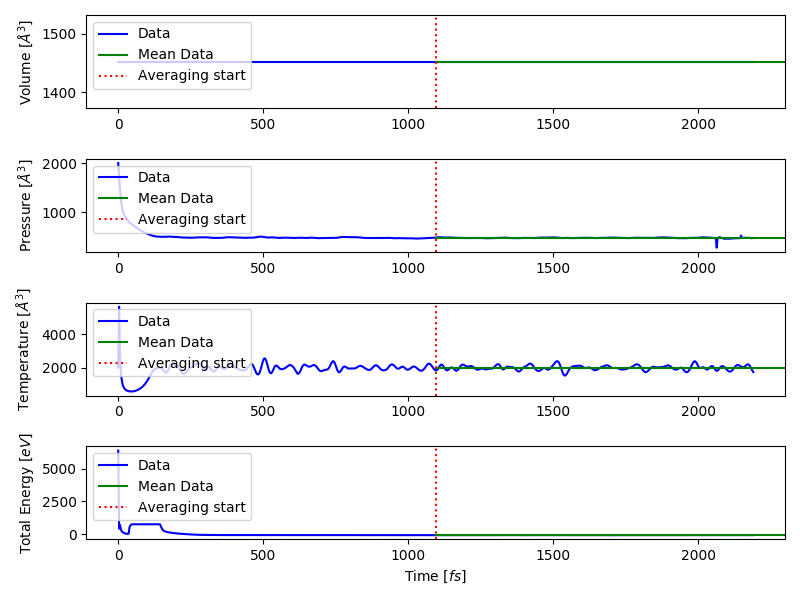
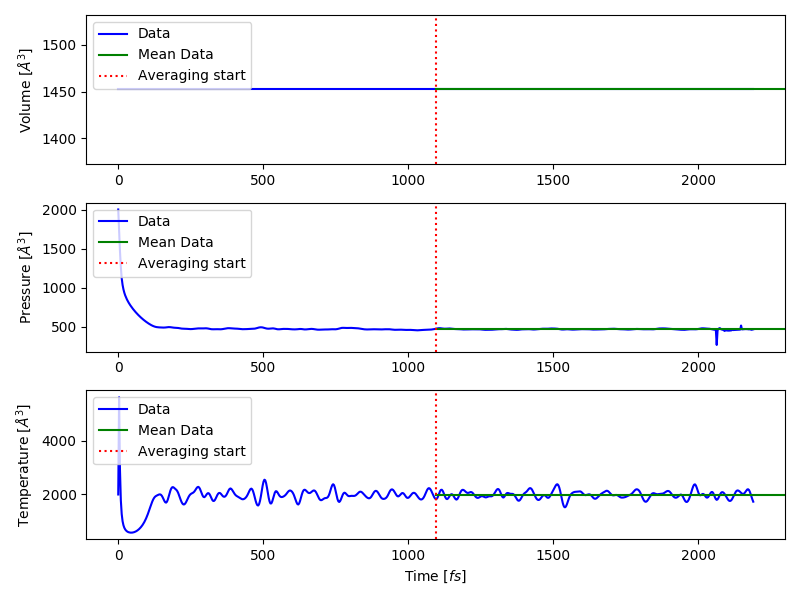
Removed etot from thermodynamic settling data because  of awkward parsing of OUTCAR. Also used spline interpolation for volume precition at zerpo pressure.

diff --git a/volumes/gather_data/scripts/iterators.py b/volumes/gather_data/scripts/iterators.py
@@ -39,34 +39,31 @@ def analysis(path, incar, poscar, outcar, fraction, save_plots=False):
     lattice, coords = parsers.poscar(join(path, poscar))
 
     # OUTCAR paramters
-    comp, vol, press, temp, etots = parsers.outcar(join(path, outcar))
+    comp, vol, press, temp = parsers.outcar(join(path, outcar))
 
     # Find minium data length because of runs stopping abruptly
     cut = min(map(len, [vol, press, temp]))
     vol = vol[:cut]
     press = press[:cut]
     temp = temp[:cut]
-    etots = etots[:cut]
 
     # Average the last percent amount of holds data
     start = floor(fraction*len(press))
     volume = np.mean(vol[start:])
     pressure = np.mean(press[start:])
     temperature = np.mean(temp[start:])
-    etot = np.mean(etots[start:])
 
     if save_plots:
-        n = 4  # Number of plots
+        n = 3  # Number of plots
         fig, ax = pl.subplots(n)
 
         x = np.array(range(len(vol)))*float(params['POTIM'])  # Time
+        xmin = x[start]/(max(x)-min(x))  # Fraction not exact due to rounding
 
         ax[0].plot(x, vol, color='b', label=r'Data')
         ax[1].plot(x, press, color='b', label=r'Data')
         ax[2].plot(x, temp, color='b', label=r'Data')
-        ax[3].plot(x, etots, color='b', label=r'Data')
 
-        xmin = x[start]/(max(x)-min(x))  # Fraction not exact due to rounding
         ax[0].axhline(
                       volume,
                       xmin=xmin,
@@ -85,17 +82,10 @@ def analysis(path, incar, poscar, outcar, fraction, save_plots=False):
                       color='g',
                       label=r'Mean Data'
                       )
-        ax[3].axhline(
-                      etot,
-                      xmin=xmin,
-                      color='g',
-                      label=r'Mean Data'
-                      )
 
         ax[0].set_ylabel(r'Volume $[\AA^{3}]$')
         ax[1].set_ylabel(r'Pressure $[\AA^{3}]$')
         ax[2].set_ylabel(r'Temperature $[\AA^{3}]$')
-        ax[3].set_ylabel(r'Total Energy $[eV]$')
 
         for i in range(n):
             ax[i].axvline(
@@ -119,7 +109,7 @@ def analysis(path, incar, poscar, outcar, fraction, save_plots=False):
 
         pl.close('all')
 
-    return comp, volume, pressure, temperature, etot, start_temp, end_temp
+    return comp, volume, pressure, temperature, start_temp, end_temp
 
 
 def iterate(paths, *args, **kwargs):
@@ -150,14 +140,13 @@ def iterate(paths, *args, **kwargs):
         print('Run '+'('+str(count)+'/'+counts+')'+': '+i)
 
         # Run data
-        j, k, l, m, e, n, o = analysis(i, *args)
+        j, k, l, m, n, o = analysis(i, *args)
 
         runs.append(i)
         compositions.append(j)
         volumes.append(k)
         pressures.append(l)
         temperatures.append(m)
-        etots.append(e)
         temp_is.append(n)
         temp_fs.append(o)
 
@@ -169,7 +158,6 @@ def iterate(paths, *args, **kwargs):
           'volume': volumes,
           'pressure': pressures,
           'temperature': temperatures,
-          'total_energy': etots,
           'start_temperature': temp_is,
           'end_temperature': temp_fs,
           }

diff --git a/volumes/gather_data/scripts/parsers.py b/volumes/gather_data/scripts/parsers.py
@@ -73,13 +73,11 @@ def outcar(path):
         volumes = The volume data.
         pressures =  The pressure data.
         temperatures = The temperature data.
-        etotal = The total energy of the system.
     '''
 
     volumes = []
     pressures = []
     temperatures = []
-    etotal = []
 
     iteration = 0
     with open(path) as f:
@@ -105,12 +103,8 @@ def outcar(path):
                 if '(temperature' in line:
                     temperatures.append(float(line[5]))
 
-                if ('free' in line) and ('TOTEN' in line):
-                    etotal.append(float(line[4]))
-
     volumes = np.array(volumes)
     pressures = np.array(pressures)
     temperatures = np.array(temperatures)
-    etotal = np.array(etotal)
 
-    return composition, volumes, pressures, temperatures, etotal
+    return composition, volumes, pressures, temperatures

diff --git a/volumes/lv_curves/scripts/lv.py b/volumes/lv_curves/scripts/lv.py
@@ -1,3 +1,4 @@
+from scipy.interpolate import interp1d
 from matplotlib import pyplot as pl
 from scipy.stats import linregress
 from os.path import join
@@ -48,8 +49,12 @@ for group, values in groups:
 
     m, b, r, p, std = linregress(xnew, ynew)
 
-    xfit = np.linspace(min(xnew), max(xnew), density)
+    xfit = np.linspace(min(x), max(x), density)
     yfit = np.array(list(map(lambda x: m*x+b, xfit)))
+
+    order = 3
+    f2 = interp1d(x, y, kind=order)
+    yfit = f2(xfit)
 
     index = functions.nearest(0, yfit)
 
@@ -65,7 +70,7 @@ for group, values in groups:
         ax.plot(
                 xfit,
                 yfit,
-                label='Extrapolation'
+                label='Spline Order '+str(order)
                 )
         ax.plot(
                 xfit[index],
